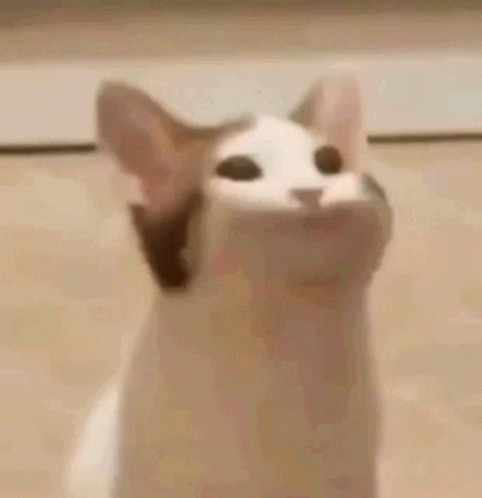
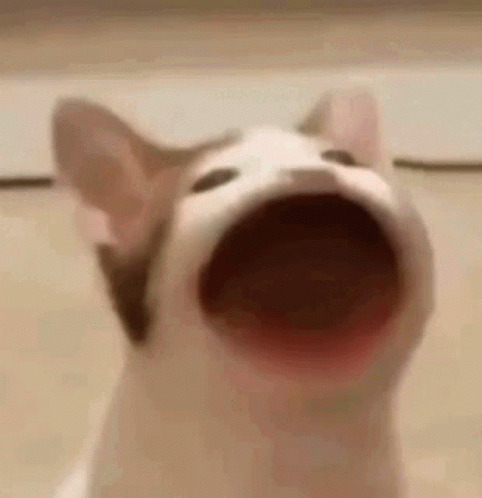
pop added

diff --git a/catpopper.html b/catpopper.html
@@ -1,22 +1,22 @@
 <html>
     <head>
-        <title>KHATFADER</title>
+        <title>CATPOPPER</title>
     </head>
     <body bgcolor="black">
 		<div id="main" style="text-align:center; color:white; font-size:14pt; font-weight:bold">
-			<img id="gif" onclick="fade()" src="./Resources/khat_once.gif" style="height:300; width:300">
+			<img id="gif" onclick="pop()" src="./Resources/pop_frames/frame1.jpg" style="height:300; width:300">
             <br>
             <br>
-			You've faded this cat <span id="fades">0</span> times.
+			You've popped this cat <span id="fades">0</span> times.
 			<br>
-			<button id="buy_fader" onclick="buyAutoFader()" style="height:75; width:200; display:inline-block">Buy autofader: 50 fades</button>
+			<button id="buy_fader" onclick="buyAutoFader()" style="height:75; width:200; display:inline-block">Buy autopopper: 50 fades</button>
 			<button id="buy_fader50" onclick="buyAutoFader50()" style="height:75; width:75; display:inline-block">Buy 50</button>
 			<br>
-			<button id="buy_faderfader" onclick="buyAutoFaderFader()" style="height:72; width:200">Buy autofaderfader: 500 fades</button>
+			<button id="buy_faderfader" onclick="buyAutoFaderFader()" style="height:72; width:200">Buy autopopperpopper: 500 fades</button>
 			<br>
-			Autofaders: <span id="faders">0</span>
+			Autopoppers: <span id="faders">0</span>
 			<br>
-			Autofaderfaders: <span id="faderfaders">0</span>
+			Autopopperpoppers: <span id="faderfaders">0</span>
 		</div>
 
 		<br>
@@ -24,43 +24,31 @@
 		<br>
 
 		<div style="color:white; font-size:10pt; font-weight:bold">
-			khatfader v0.23.0a <br>
+			catpopper v0 <br>
 		<br>
 			Changelog:		<br><br>
-			[December 10 20:23] v0.23		<br>
-			- Added Experimental button <br>
+			[December 19 20:30] v0		<br>
+			- pop <br>
 			<br>
-
-			[December 9 21:55] v0.22		<br>
-			- Added buy 50 faders button <br>
-			<br>
-			[December 9 21:38] v0.21		<br>
-			- Localized images to be taken from Github to avoid a possible lawsuit from Discord :/ <br>
-			- Increased button thiccness <br>
-			- Thiccened changelog text to be bold af <br>
-			- made changelog smaller <br>
-			- destroyed your mom in a rap battle <br>
-			<br>
-			[December 8 21:38] v0.2		<br>
-			- Added faderfaders owo <br>
-			** HOTFIX v0.2.1	<br>
-			- removed your mom	<br>
-			*** HOTFIX v0.2.2	<br>
-			- removed your dad	<br>
-			<br>
-			[December 8 21:00] v0.1	<br>
-			- Added khat		<br>
-		</div>
-		<div style="text-align:right">
-			<a href="https://krispuusepp.github.io/khatfaderexperimental.html">khat fader experimental</a>
 		</div>
         <script>
-			//TODO:
-			// - Optimize fading
-			// - Add more content
+			var open = false
 			var fades = 0
 			var autoFaders = 0
 			var autoFaderFaders = 0
+			function pop() {
+				fade()
+				self.setTimeout("pop2()", 250);
+			}
+			function pop2() {
+				if(!open) {
+					document.getElementById("gif").src="./Resources/pop_frames/frame2.jpg";
+					open = true;
+				} else {
+					document.getElementById("gif").src="./Resources/pop_frames/frame1.jpg";
+					open = false;
+				}
+			}
 			function fade() {
 				fades++
 				if(fades == 69) {
@@ -68,7 +56,13 @@
 				} else {
 					document.getElementById("fades").innerHTML = fades;
 				}
-				document.getElementById("gif").src="./Resources/khat_once.gif";
+				if(!open) {
+					document.getElementById("gif").src="./Resources/pop_frames/frame2.jpg";
+					open = true;
+				} else {
+					document.getElementById("gif").src="./Resources/pop_frames/frame1.jpg";
+					open = false;
+				}
 			}
 			function buyAutoFader()
 			{
@@ -76,12 +70,12 @@
 					fades = fades - 50
 					autoFaders++
 					document.getElementById("faders").innerHTML=autoFaders;
-					document.getElementById("buy_fader").innerHTML="fader bought owo";
-					self.setTimeout("clearButton('buy_fader', 'Buy autofader: 50 fades')", 2000);
+					document.getElementById("buy_fader").innerHTML="popper bought owo";
+					self.setTimeout("clearButton('buy_fader', 'Buy autopopper: 50 pops')", 2000);
 					autoFade()
 				} else {
-					document.getElementById("buy_fader").innerHTML="not enough fades ;-;";
-					self.setTimeout("clearButton('buy_fader', 'Buy autofader: 50 fades')", 2000);
+					document.getElementById("buy_fader").innerHTML="not enough pops ;-;";
+					self.setTimeout("clearButton('buy_fader', 'Buy autopopper: 50 pops')", 2000);
 				}
 			}
 			function buyAutoFader50()
@@ -90,13 +84,13 @@
 					fades = fades - 2500
 					autoFaders += 50
 					document.getElementById("faders").innerHTML=autoFaders;
-					document.getElementById("buy_fader50").innerHTML="big fade";
+					document.getElementById("buy_fader50").innerHTML="big pop";
 					self.setTimeout("clearButton('buy_fader50', 'Buy 50')", 1000);
 					for(i = 0; i < 2500; i++) {
 						autoFade();
 					}
 				} else {
-					document.getElementById("buy_fader50").innerHTML="no fade";
+					document.getElementById("buy_fader50").innerHTML="no pop";
 					self.setTimeout("clearButton('buy_fader50', 'Buy 50')", 1000);
 				}
 			}
@@ -106,12 +100,12 @@
 					fades = fades - 500
 					autoFaderFaders++
 					document.getElementById("faderfaders").innerHTML=autoFaderFaders;
-					document.getElementById("buy_faderfader").innerHTML="faderfader bought owo";
-					self.setTimeout("clearButton('buy_faderfader', 'Buy autofaderfader: 500 fades')", 2000);
+					document.getElementById("buy_faderfader").innerHTML="popperpopper bought owo";
+					self.setTimeout("clearButton('buy_faderfader', 'Buy autopopperpopper: 500 fades')", 2000);
 					autoFaderFade()
 				} else {
-					document.getElementById("buy_faderfader").innerHTML="not enough fades ;-;";
-					self.setTimeout("clearButton('buy_faderfader', 'Buy autofaderfader: 500 fades')", 2000);
+					document.getElementById("buy_faderfader").innerHTML="not enough pops ;-;";
+					self.setTimeout("clearButton('buy_faderfader', 'Buy autopopperpopper: 500 fades')", 2000);
 				}
 			}
 

diff --git a/khatfader.html b/khatfader.html
@@ -18,15 +18,23 @@
 			<br>
 			Autofaderfaders: <span id="faderfaders">0</span>
 		</div>
+		<div style="text-align:right">
+			<a href="https://krispuusepp.github.io/khatfaderexperimental.html">khat fader experimental</a>
+			<a href="https://krispuusepp.github.io/catpopper.html">popcat mode</a>
+		</div>
 
 		<br>
 		<br>
 		<br>
 
 		<div style="color:white; font-size:10pt; font-weight:bold">
-			khatfader v0.23.0a <br>
+			khatfader v0.24.0a <br>
 		<br>
 			Changelog:		<br><br>
+
+			[December 19 20:30] v0.24<br>
+			- added pop mode<br>
+			<br>
 			[December 10 20:23] v0.23		<br>
 			- Added Experimental button <br>
 			<br>
